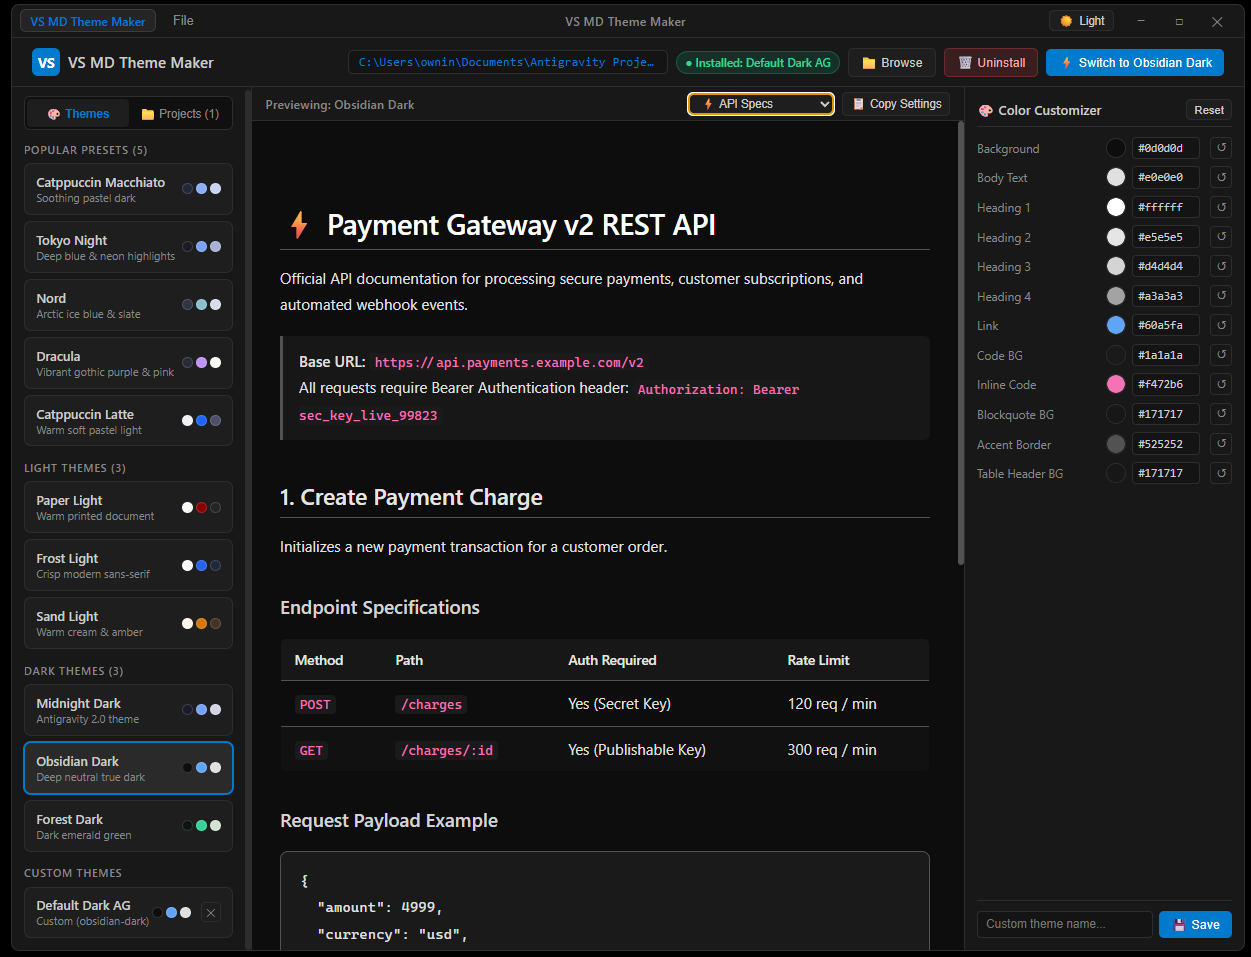
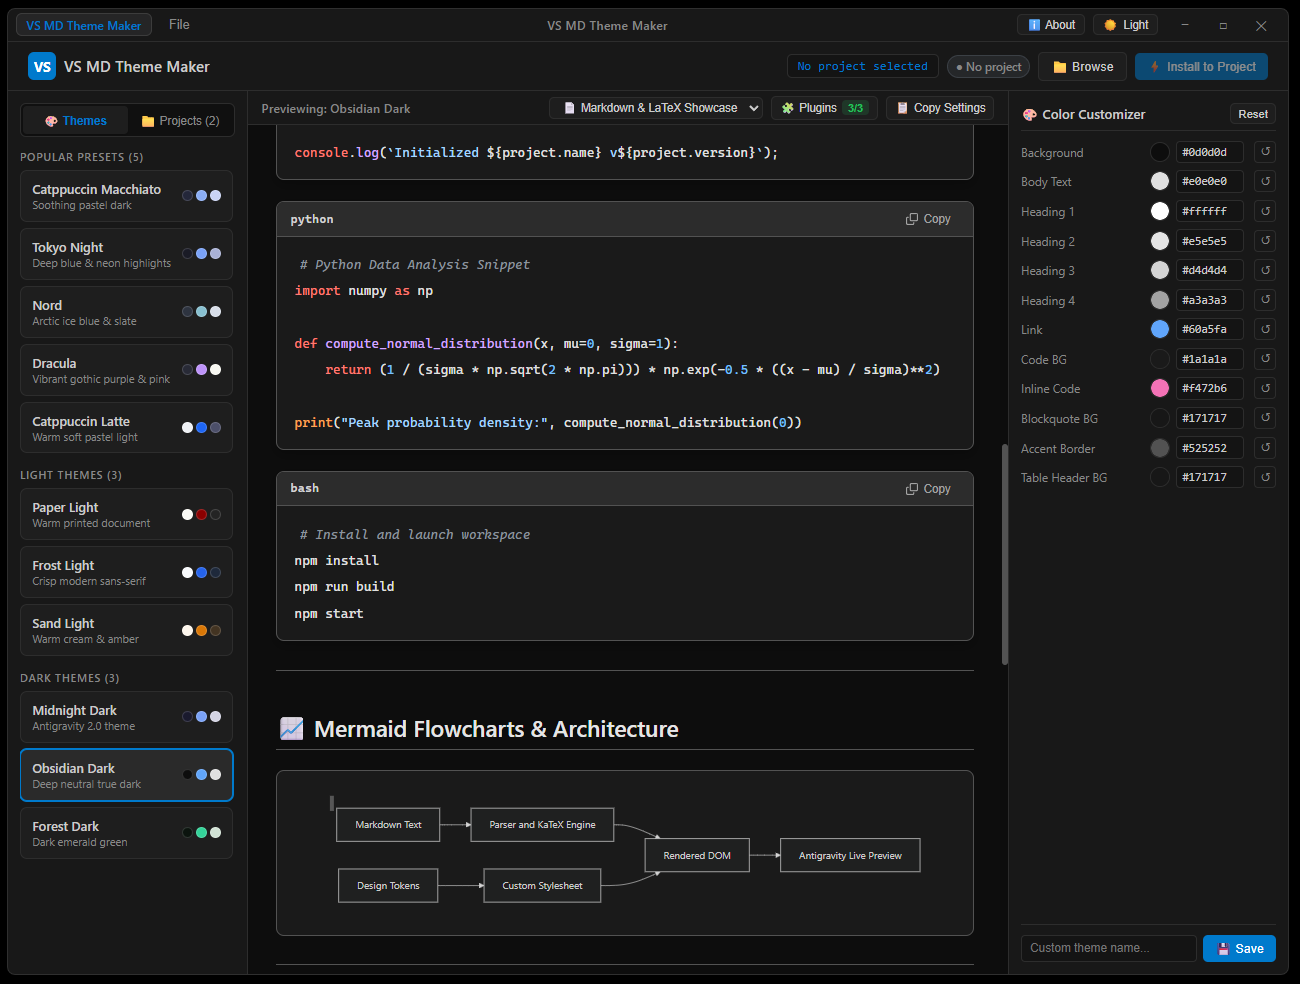
docs(readme): update preview screenshots and arrange side-by-side layout

diff --git a/README.md b/README.md
@@ -4,8 +4,10 @@ An open-source Electron desktop app and theme customizer for VS Code & Antigravi
 
 > 💡 **Inspiration & Story**: This is a **vibecoded** app built using **Antigravity IDE** and **Antigravity 2.0**, powered by **Claude** for strong technical implementation planning while **Antigravity** executed the end-to-end task. The inspiration behind this project comes from daily use of Antigravity IDE—where default Markdown preview themes often felt generic and hard to read. This tool makes creating, customizing, and applying vibrant, readable Markdown preview themes effortless.
 
-![Dark Theme Preview](./dark.png)
-![Light Theme Preview](./light.png)
+<p align="center">
+  <img src="./dark.png" alt="Dark Theme Preview" width="49%" />
+  <img src="./light.png" alt="Light Theme Preview" width="49%" />
+</p>
 
 ---
 
